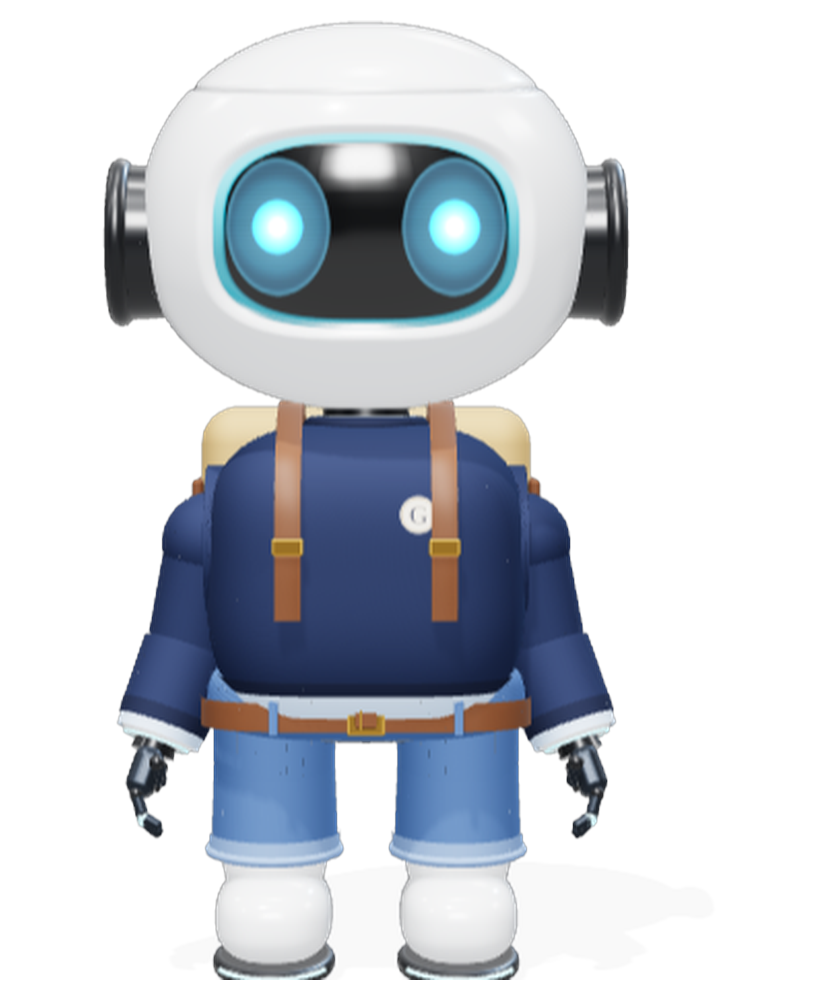
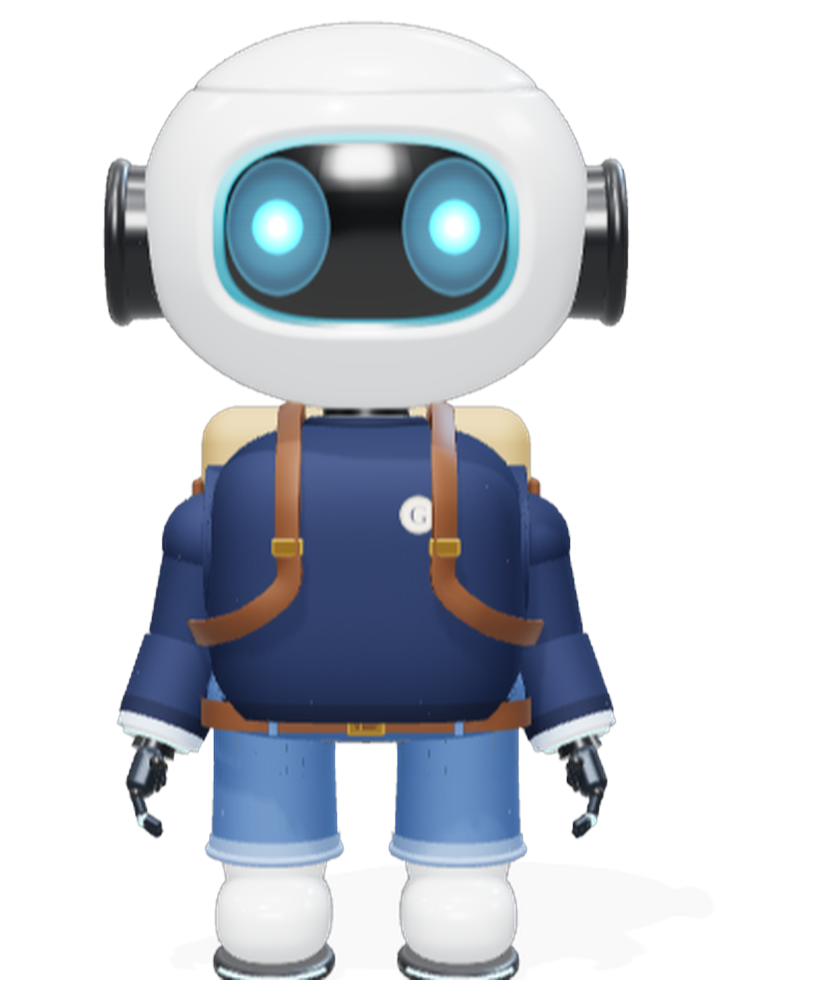
Gizmo outfit: straps wrap under the arms; no waist showing
- Backpack straps run over the shoulders, down the chest, then under
  each arm to the bottom of the bag
- Sweatshirt hem lowered over the belt and the shirt-tail strip removed,
  so no white body shows at the waist

Claude-Session: https://claude.ai/code/session_01HN9mNrF19oo88FNATmVzzN

Changed region(s): [[0.2134, 0.403, 0.6707, 0.744], [0.3659, 0.403, 0.3963, 0.434]]

diff --git a/gizmo/avatar3d.js b/gizmo/avatar3d.js
@@ -300,11 +300,10 @@ export function createAvatar(el, opts = {}) {
     return mesh(g, mat);
   }
 
-  const SA = .64, SBT = .56, SBB = .66, SC = .55, SN = 3.2, HEM = -.5;            // sweatshirt: boxier and longer than the body egg
+  const SA = .64, SBT = .56, SBB = .8, SC = .55, SN = 3.2, HEM = -.58;            // sweatshirt: boxier and longer than the body egg
   const sweatZ = (x, y) => SC * Math.pow(Math.max(0, 1 - Math.pow(Math.abs(x / SA), SN) - Math.pow(Math.abs(y / (y > 0 ? SBT : SBB)), SN)), 1 / SN);
   const sweat = band(SA, SBT, SBB, SC, SN, HEM + .06, 1, C.sweat); torso.add(mesh(superBlob(SA * .995, SBT, SBT, SC * .995, SN, 96, 64), C.sweat, [0, TY + .001, 0], [1, 1, 1]).translateY(0)); sweat.position.y = TY; torso.add(sweat);
   const hemRib = band(SA * 1.012, SBT, SBB * 1.01, SC * 1.014, SN, HEM, HEM + .075, C.rib); hemRib.position.y = TY; torso.add(hemRib);
-  const tail = band(SA * .985, SBT, SBB * 1.08, SC * .985, SN, HEM - .07, HEM + .02, C.shirt); tail.position.y = TY; torso.add(tail);   // shirt-tail under the hem
   // crew neck: ribbed collar round the neck
   torso.add(mesh(new THREE.TorusGeometry(.215, .042, 14, 48), C.rib, [0, TY + SBT - .015, 0]).rotateX(PI / 2));
   // chest patch: a cream circle with a navy G
@@ -364,12 +363,13 @@ export function createAvatar(el, opts = {}) {
     bp.add(mesh(new THREE.TorusGeometry(.13, .028, 10, 24, PI), C.leather, [0, .54, 0]));                     // top handle
     // shoulder straps: flat leather ribbons from the top of the pack, over the shoulders, down the chest
     const strap = (pts, w, t, mat) => {
-      // flat leather strap: width runs across x, thickness runs along the curve's outward normal
-      const curve = new THREE.CatmullRomCurve3(pts.map(p => new THREE.Vector3(...p))), N = 90, pos = [], idx = [];
-      const X = new THREE.Vector3(1, 0, 0), tan = new THREE.Vector3(), nrm = new THREE.Vector3();
+      // flat leather strap: thickness points away from the body centre, width lies across the surface
+      const curve = new THREE.CatmullRomCurve3(pts.map(p => new THREE.Vector3(...p)), false, 'centripetal'), N = 120, pos = [], idx = [];
+      const tan = new THREE.Vector3(), out = new THREE.Vector3(), wd = new THREE.Vector3();
       for (let i = 0; i <= N; i++) {
-        const p = curve.getPoint(i / N); curve.getTangent(i / N, tan); nrm.crossVectors(X, tan).normalize();
-        for (const [dx, dn] of [[-w / 2, -t / 2], [w / 2, -t / 2], [w / 2, t / 2], [-w / 2, t / 2]]) pos.push(p.x + dx, p.y + nrm.y * dn, p.z + nrm.z * dn);
+        const p = curve.getPoint(i / N); curve.getTangent(i / N, tan);
+        out.set(p.x, p.y - .05, p.z).normalize(); wd.crossVectors(tan, out).normalize(); out.crossVectors(wd, tan).normalize();
+        for (const [a, b] of [[-w / 2, -t / 2], [w / 2, -t / 2], [w / 2, t / 2], [-w / 2, t / 2]]) pos.push(p.x + wd.x * a + out.x * b, p.y + wd.y * a + out.y * b, p.z + wd.z * a + out.z * b);
         if (i < N) { const a = i * 4, b = a + 4; for (let k = 0; k < 4; k++) { const k2 = (k + 1) % 4; idx.push(a + k, b + k, a + k2, a + k2, b + k, b + k2); } }
       }
       const g = new THREE.BufferGeometry(); g.setAttribute('position', new THREE.Float32BufferAttribute(pos, 3)); g.setIndex(idx); g.computeVertexNormals();
@@ -380,7 +380,9 @@ export function createAvatar(el, opts = {}) {
       const x = sx * .3, over = SBT + GAP + .02;
       const front = y => [x, y, sweatZ(x, y) + GAP];
       const back = y => [x, y, -sweatZ(x, y) - GAP];
-      const pts = [[x, .42, -SC - .1], back(.42), back(.5), [x, over, -.12], [x, over, .12], front(.5), front(.42), front(.3), front(.15), front(0), front(-.18)];
+      const pts = [[x, .46, -SC - .12], back(.46), [x, over, -.18], [x, over, .1], front(.46), front(.3), front(.12), front(-.04),
+        [sx * .44, -.17, sweatZ(.44, -.17) + GAP], [sx * .6, -.24, sweatZ(.6, -.24) + GAP + .02], [sx * (SA + GAP + .02), -.27, 0],
+        [sx * .6, -.3, -sweatZ(.6, -.3) - GAP - .02], [sx * .5, -.36, -SC - .14]];
       const st = strap(pts, .1, .022, C.leather); st.position.y = TY; torso.add(st);
       torso.add(mesh(new RoundedBoxGeometry(.12, .065, .03, 2, .01), C.brass, [x, TY + .1, sweatZ(x, .1) + GAP + .015]));
     }
